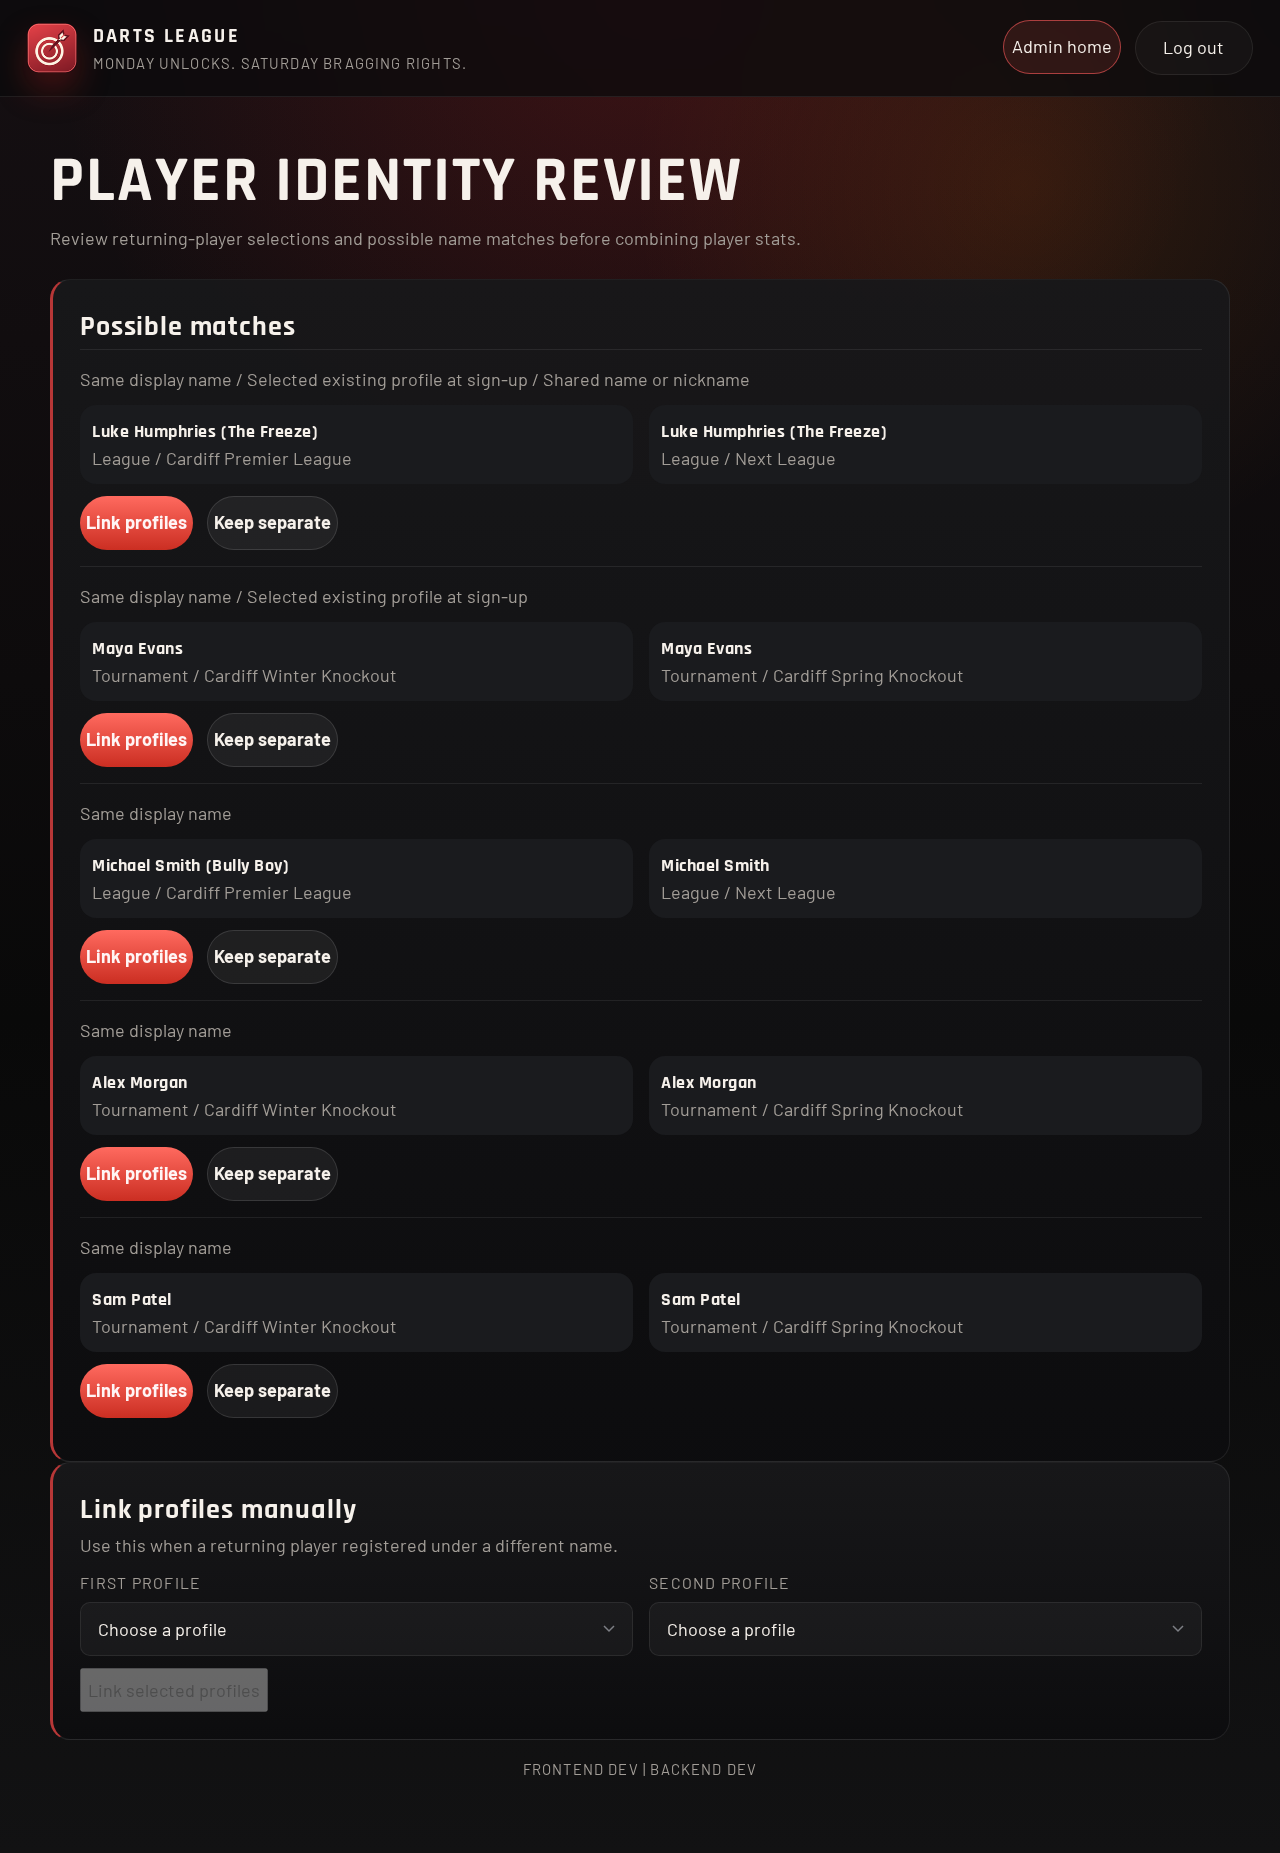
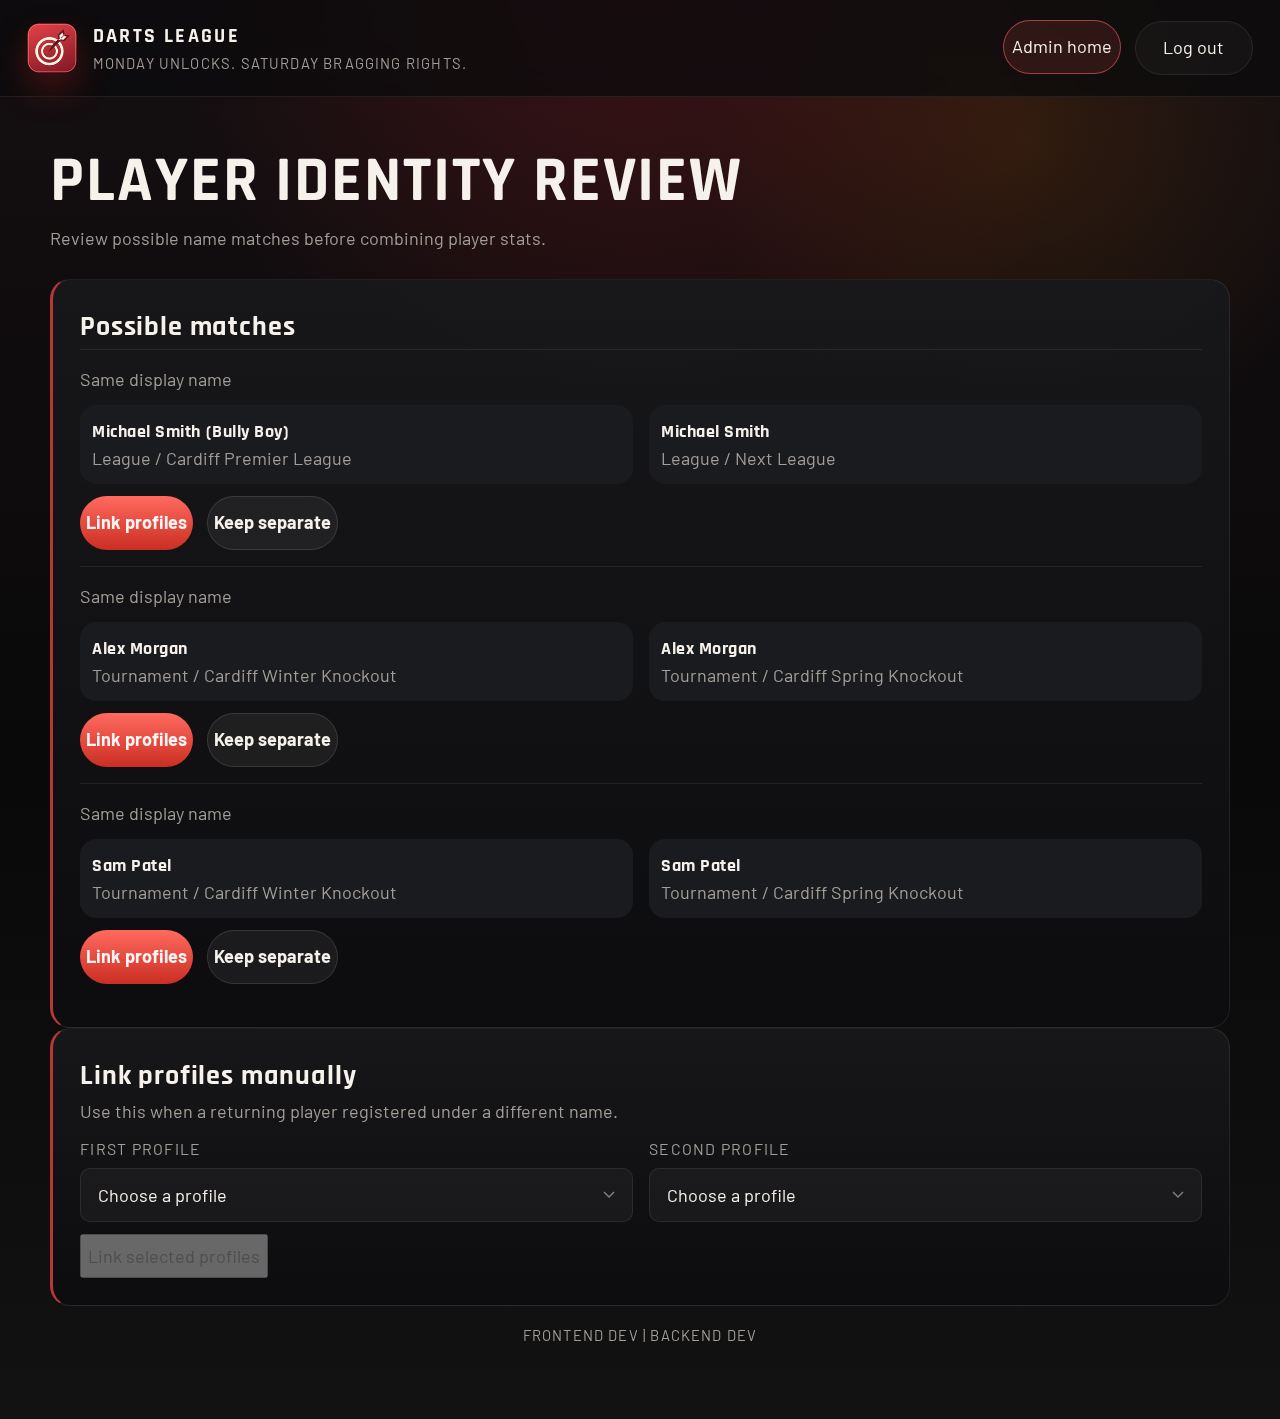
Link explicitly selected player profiles at sign-up

diff --git a/frontend/tests/smoke.spec.ts b/frontend/tests/smoke.spec.ts
@@ -393,6 +393,7 @@ test('register, assign divisions, start season, enter result, and view division 
   await expect(page.getByRole('button', { name: 'Register for the league' })).toBeDisabled()
   await page.getByLabel('Search previous players').fill('luke hum')
   await page.getByLabel('Previous player profile').selectOption({ label: `The Freeze / ${leagueName}` })
+  const returningIdentity = Number(await page.getByLabel('Previous player profile').inputValue())
   await captureScreenshot(page, 'returning-league.png')
   await page.setViewportSize({ width: 375, height: 900 })
   expect(await page.evaluate(() => document.documentElement.scrollWidth <= window.innerWidth)).toBe(true)
@@ -423,6 +424,9 @@ test('register, assign divisions, start season, enter result, and view division 
   await expect(page.locator('.admin-fixture-card')).toHaveCount(1)
   await expect(page.locator('.admin-fixture-card.recorded')).toHaveCount(0)
   await expect(page.locator('input[id^="p1-"]')).toHaveValue('')
+  const profiles = await (await page.request.get('/api/players')).json()
+  const freeze = profiles.filter((profile: { name: string }) => profile.name === 'The Freeze')
+  expect(freeze).toEqual([expect.objectContaining({ identity_id: returningIdentity, competition: 'Next League' })])
 })
 
 test('all five division navigation actions fit on one line without scrolling', async ({ page }) => {
@@ -613,9 +617,11 @@ test('admins open a tournament and manage public entries independently of the le
       .filter({ hasText: 'Alex Morgan' })
     const sam = suggestions.getByRole('listitem').filter({ has: page.getByRole('button', { name: 'Keep separate' }) })
       .filter({ hasText: 'Sam Patel' })
-    const maya = suggestions.getByRole('listitem').filter({ has: page.getByRole('button', { name: 'Link profiles' }) })
-      .filter({ hasText: 'Maya Evans' })
-    await expect(maya).toContainText('Selected existing profile at sign-up')
+    const review = await (await page.request.get('/api/admin/player-identities')).json()
+    expect(review.entries).toContainEqual(expect.objectContaining({
+      identity_id, display_name: 'Maya Evans', competition: 'Cardiff Spring Knockout',
+    }))
+    await expect(suggestions.getByRole('listitem').filter({ hasText: 'Maya Evans' })).toHaveCount(0)
     await expect(alex).toContainText('Same display name')
     await expect(sam).toContainText(eventName)
     for (const width of [375, 768, 1280]) {

diff --git a/frontend/src/pages/register/ReturningPlayerSignup.tsx b/frontend/src/pages/register/ReturningPlayerSignup.tsx
@@ -50,7 +50,7 @@ function ReturningPlayerForm({ action, endpoint, successMessage }: ReturningProp
 
   if (enter.isSuccess) return <div role="status">
     <StateNotice message={successMessage(enter.data.preferred_name)} compact />
-    <p>An admin will review the link to your previous results.</p>
+    <p>This entry is linked to your existing player profile.</p>
   </div>
   if (directory.isPending) return <p role="status">Loading previous players...</p>
   if (directory.isError) return <div className="toolbar-actions">
@@ -65,7 +65,7 @@ function ReturningPlayerForm({ action, endpoint, successMessage }: ReturningProp
 
   const profiles = filterPlayerProfiles(directory.data, search)
   return <form className="form-preview" onSubmit={event => { event.preventDefault(); enter.mutate() }}>
-    <p>Choose the profile you played under. An admin will confirm the link to your previous results.</p>
+    <p>Choose the profile you played under to keep your previous results linked.</p>
     <div className="field">
       <label htmlFor="returning-search">Search previous players</label>
       <input id="returning-search" type="search" value={search} disabled={enter.isPending} onChange={event => {

diff --git a/frontend/src/pages/admin/PlayerIdentityPage.tsx b/frontend/src/pages/admin/PlayerIdentityPage.tsx
@@ -81,7 +81,7 @@ export function PlayerIdentityPage() {
   return <div className="admin-workspace">
     <section className="page-intro">
       <h1>Player identity review</h1>
-      <p>Review returning-player selections and possible name matches before combining player stats.</p>
+      <p>Review possible name matches before combining player stats.</p>
     </section>
     {review.isPending ? <p role="status">Loading player identities...</p> :
       review.isError ? <section className="admin-card">

diff --git a/backend/internal/store/postgres/identity_test.go b/backend/internal/store/postgres/identity_test.go
@@ -4,7 +4,6 @@ import (
 	"context"
 	"errors"
 	"os"
-	"slices"
 	"testing"
 	"time"
 
@@ -92,7 +91,7 @@ func TestIdentityMigrationAndReview(t *testing.T) {
 		t.Fatal(err)
 	}
 	entry, err := scoped.CreateTournamentEntry(ctx, "next-cup", tournament.Entry{
-		DisplayName: "A different name", RegisteredAt: time.Now(), RequestedIdentityID: alex,
+		DisplayName: "A different name", RegisteredAt: time.Now(), ReturningIdentityID: alex,
 	})
 	if err != nil {
 		t.Fatal(err)
@@ -107,18 +106,30 @@ func TestIdentityMigrationAndReview(t *testing.T) {
 			newID = e.IdentityID
 		}
 	}
-	if newID <= 0 || newID == alex {
-		t.Fatalf("returning registration must have its own ID pending review: %+v", snapshot.Entries)
+	if newID != alex {
+		t.Fatalf("returning registration must immediately reuse identity %d: %+v", alex, snapshot.Entries)
 	}
-	suggestions := snapshot.Review().Suggestions
-	if len(suggestions) != 1 || suggestions[0].Left != alex || suggestions[0].Right != newID ||
-		!slices.Contains(suggestions[0].Signals, "Selected existing profile at sign-up") {
-		t.Fatalf("the requested link must be available in identity review: %+v", suggestions)
+	if suggestions := snapshot.Review().Suggestions; len(suggestions) != 0 {
+		t.Fatalf("a linked entry must not create a review suggestion: %+v", suggestions)
 	}
 	if _, err := scoped.CreateTournamentEntry(ctx, "next-cup", tournament.Entry{
-		DisplayName: "Another alias", RegisteredAt: time.Now(), RequestedIdentityID: alex,
+		DisplayName: "Another alias", RegisteredAt: time.Now(), ReturningIdentityID: alex,
 	}); !errors.Is(err, league.ErrDuplicatePlayerName) {
 		t.Fatalf("returning profile cannot enter the same tournament a second time: %v", err)
+	}
+	if _, err := tx.Exec(ctx, `INSERT INTO seasons (id, name, status) VALUES (2, 'Next League', 'registration_open');
+		SELECT setval(pg_get_serial_sequence('players', 'id'), 2)`); err != nil {
+		t.Fatal(err)
+	}
+	player, err := scoped.CreatePlayer(ctx, league.Player{
+		SeasonID: 2, DisplayName: "Alex Morgan", Status: league.PlayerStatusWaitlist, RegisteredAt: time.Now(), ReturningIdentityID: alex,
+	})
+	if err != nil {
+		t.Fatal(err)
+	}
+	var leagueIdentity int64
+	if err := tx.QueryRow(ctx, `SELECT identity_id FROM players WHERE id = $1`, player.ID).Scan(&leagueIdentity); err != nil || leagueIdentity != alex {
+		t.Fatalf("returning league registration identity = %d, want %d: %v", leagueIdentity, alex, err)
 	}
 	var actions int
 	if err := tx.QueryRow(ctx, `SELECT count(*) FROM player_identity_decisions WHERE actor = 'league-admin'`).Scan(&actions); err != nil || actions != 2 {

diff --git a/backend/internal/store/postgres/store.go b/backend/internal/store/postgres/store.go
@@ -454,7 +454,7 @@ func (s *Store) CreatePlayer(ctx context.Context, player league.Player) (league.
 		return league.Player{}, err
 	}
 	defer tx.Rollback(ctx)
-	if player.RequestedIdentityID > 0 {
+	if player.ReturningIdentityID > 0 {
 		var status league.SeasonStatus
 		if err := tx.QueryRow(ctx, `SELECT status FROM seasons WHERE id = $1`, player.SeasonID).Scan(&status); err != nil {
 			return league.Player{}, err
@@ -462,15 +462,15 @@ func (s *Store) CreatePlayer(ctx context.Context, player league.Player) (league.
 		if status != league.SeasonStatusRegistrationOpen {
 			return league.Player{}, league.ErrRegistrationClosed
 		}
-		if err := verifyReturningIdentity(ctx, tx, player.RequestedIdentityID, player.SeasonID, ""); err != nil {
+		if err := verifyReturningIdentity(ctx, tx, player.ReturningIdentityID, player.SeasonID, ""); err != nil {
 			return league.Player{}, err
 		}
 	}
 	row := tx.QueryRow(ctx, `
-		INSERT INTO players (season_id, division_id, display_name, display_name_normalized, nickname, status, registered_at, requested_identity_id)
-		VALUES ($1, $2, $3, $4, $5, $6, $7, NULLIF($8::bigint, 0))
+		INSERT INTO players (season_id, division_id, display_name, display_name_normalized, nickname, status, registered_at, identity_id)
+		VALUES ($1, $2, $3, $4, $5, $6, $7, COALESCE(NULLIF($8::bigint, 0), nextval('player_identity_id_seq')))
 		RETURNING id, season_id, division_id, display_name, nickname, status, registered_at
-	`, player.SeasonID, player.DivisionID, player.DisplayName, league.NormalizeDisplayName(player.DisplayName), nullIfBlank(player.Nickname), player.Status, player.RegisteredAt, player.RequestedIdentityID)
+	`, player.SeasonID, player.DivisionID, player.DisplayName, league.NormalizeDisplayName(player.DisplayName), nullIfBlank(player.Nickname), player.Status, player.RegisteredAt, player.ReturningIdentityID)
 	var created league.Player
 	var divisionID *int64
 	var nickname *string

diff --git a/backend/internal/playerstats/identity.go b/backend/internal/playerstats/identity.go
@@ -203,6 +203,9 @@ func (m *MemoryIdentities) snapshot(ctx context.Context) (IdentitySnapshot, erro
 		if entry.Kind == "tournament" {
 			id++
 		}
+		if entry.IdentityID > 0 {
+			id = entry.IdentityID
+		}
 		if linked := m.linked[id]; linked != 0 {
 			id = linked
 		}
@@ -283,7 +286,7 @@ func (s Service) IdentityEntries(ctx context.Context) ([]IdentityEntry, error) {
 			return nil, err
 		}
 		for _, p := range players {
-			entries = append(entries, IdentityEntry{Kind: "league", EntryID: p.ID, RequestedIdentityID: p.RequestedIdentityID, Scope: strconv.FormatInt(season.ID, 10), Competition: season.Name, DisplayName: p.DisplayName, Nickname: p.Nickname})
+			entries = append(entries, IdentityEntry{Kind: "league", EntryID: p.ID, IdentityID: p.ReturningIdentityID, Scope: strconv.FormatInt(season.ID, 10), Competition: season.Name, DisplayName: p.DisplayName, Nickname: p.Nickname})
 		}
 	}
 	events, err := s.Tournament.ListTournaments(ctx)
@@ -296,7 +299,7 @@ func (s Service) IdentityEntries(ctx context.Context) ([]IdentityEntry, error) {
 			return nil, err
 		}
 		for _, entry := range roster {
-			entries = append(entries, IdentityEntry{Kind: "tournament", EntryID: entry.ID, RequestedIdentityID: entry.RequestedIdentityID, Scope: event.Slug, Competition: event.Name, DisplayName: entry.DisplayName, Nickname: strings.TrimSpace(entry.Nickname)})
+			entries = append(entries, IdentityEntry{Kind: "tournament", EntryID: entry.ID, IdentityID: entry.ReturningIdentityID, Scope: event.Slug, Competition: event.Name, DisplayName: entry.DisplayName, Nickname: strings.TrimSpace(entry.Nickname)})
 		}
 	}
 	return entries, nil

diff --git a/backend/internal/store/postgres/tournaments.go b/backend/internal/store/postgres/tournaments.go
@@ -166,16 +166,16 @@ func (s *Store) CreateTournamentEntry(ctx context.Context, slug string, entry to
 		return tournament.Entry{}, league.ErrRegistrationClosed
 	}
 
-	if entry.RequestedIdentityID > 0 {
-		if err := verifyReturningIdentity(ctx, tx, entry.RequestedIdentityID, 0, slug); err != nil {
+	if entry.ReturningIdentityID > 0 {
+		if err := verifyReturningIdentity(ctx, tx, entry.ReturningIdentityID, 0, slug); err != nil {
 			return tournament.Entry{}, err
 		}
 	}
 	created, err := scanTournamentEntry(tx.QueryRow(ctx, `
-		INSERT INTO tournament_entries (tournament_slug, display_name, display_name_normalized, nickname, registered_at, requested_identity_id)
-		VALUES ($1, $2, $3, $4, $5, NULLIF($6::bigint, 0))
-		ON CONFLICT (tournament_slug, display_name_normalized) DO NOTHING
-		RETURNING `+tournamentEntryColumns, slug, entry.DisplayName, league.NormalizeDisplayName(entry.DisplayName), entry.Nickname, entry.RegisteredAt, entry.RequestedIdentityID))
+		INSERT INTO tournament_entries (tournament_slug, display_name, display_name_normalized, nickname, registered_at, identity_id)
+		VALUES ($1, $2, $3, $4, $5, COALESCE(NULLIF($6::bigint, 0), nextval('player_identity_id_seq')))
+		ON CONFLICT DO NOTHING
+		RETURNING `+tournamentEntryColumns, slug, entry.DisplayName, league.NormalizeDisplayName(entry.DisplayName), entry.Nickname, entry.RegisteredAt, entry.ReturningIdentityID))
 	if errors.Is(err, pgx.ErrNoRows) {
 		return tournament.Entry{}, league.ErrDuplicatePlayerName
 	}

diff --git a/backend/internal/httpapi/returning_registration.go b/backend/internal/httpapi/returning_registration.go
@@ -79,7 +79,7 @@ func (h ReturningRegistrationHandler) leagueEntry(w http.ResponseWriter, r *http
 		return
 	}
 	player, err := h.Registration.RegisterPlayer(r.Context(), league.Player{
-		SeasonID: seasonID, DisplayName: displayName, Nickname: nickname, RequestedIdentityID: id,
+		SeasonID: seasonID, DisplayName: displayName, Nickname: nickname, ReturningIdentityID: id,
 	})
 	if err != nil {
 		if !writeReturningError(w, err) {
@@ -96,7 +96,7 @@ func (h ReturningRegistrationHandler) tournamentEntry(w http.ResponseWriter, r *
 		return
 	}
 	entry, err := h.Tournament.RegisterEntry(r.Context(), r.PathValue("slug"), tournament.Entry{
-		DisplayName: displayName, Nickname: nickname, RequestedIdentityID: id,
+		DisplayName: displayName, Nickname: nickname, ReturningIdentityID: id,
 	})
 	if err != nil {
 		if !writeReturningError(w, err) {

diff --git a/backend/internal/league/memory_store.go b/backend/internal/league/memory_store.go
@@ -201,7 +201,11 @@ func (s *MemoryStore) CreatePlayer(_ context.Context, player Player) (Player, er
 		return Player{}, ErrSeasonCompleted
 	}
 	for _, existing := range s.playersByID {
-		if existing.SeasonID == player.SeasonID && NormalizeDisplayName(existing.DisplayName) == NormalizeDisplayName(player.DisplayName) {
+		if existing.SeasonID != player.SeasonID {
+			continue
+		}
+		if NormalizeDisplayName(existing.DisplayName) == NormalizeDisplayName(player.DisplayName) ||
+			(player.ReturningIdentityID > 0 && existing.ReturningIdentityID == player.ReturningIdentityID) {
 			return Player{}, ErrDuplicatePlayerName
 		}
 	}

diff --git a/backend/internal/tournament/memory.go b/backend/internal/tournament/memory.go
@@ -145,7 +145,8 @@ func (s *MemoryStore) CreateTournamentEntry(_ context.Context, slug string, entr
 	}
 	name := league.NormalizeDisplayName(entry.DisplayName)
 	for _, existing := range s.entries[slug] {
-		if league.NormalizeDisplayName(existing.DisplayName) == name {
+		if league.NormalizeDisplayName(existing.DisplayName) == name ||
+			(entry.ReturningIdentityID > 0 && existing.ReturningIdentityID == entry.ReturningIdentityID) {
 			return Entry{}, league.ErrDuplicatePlayerName
 		}
 	}

diff --git a/backend/internal/league/service.go b/backend/internal/league/service.go
@@ -93,7 +93,7 @@ func (s RegistrationService) RegisterPlayer(ctx context.Context, player Player) 
 		return Player{}, err
 	}
 
-	if player.RequestedIdentityID > 0 && season.ID != player.SeasonID {
+	if player.ReturningIdentityID > 0 && season.ID != player.SeasonID {
 		return Player{}, ErrSeasonTransition
 	}
 	book := NewRegistrationBook(existingPlayers)

diff --git a/backend/internal/tournament/tournament.go b/backend/internal/tournament/tournament.go
@@ -51,7 +51,7 @@ func (f MatchFormat) validate() error {
 }
 
 type Entry struct {
-	RequestedIdentityID int64     `json:"-"`
+	ReturningIdentityID int64     `json:"-"`
 	ID                  int64     `json:"id"`
 	DisplayName         string    `json:"display_name"`
 	Nickname            string    `json:"nickname,omitempty"`
